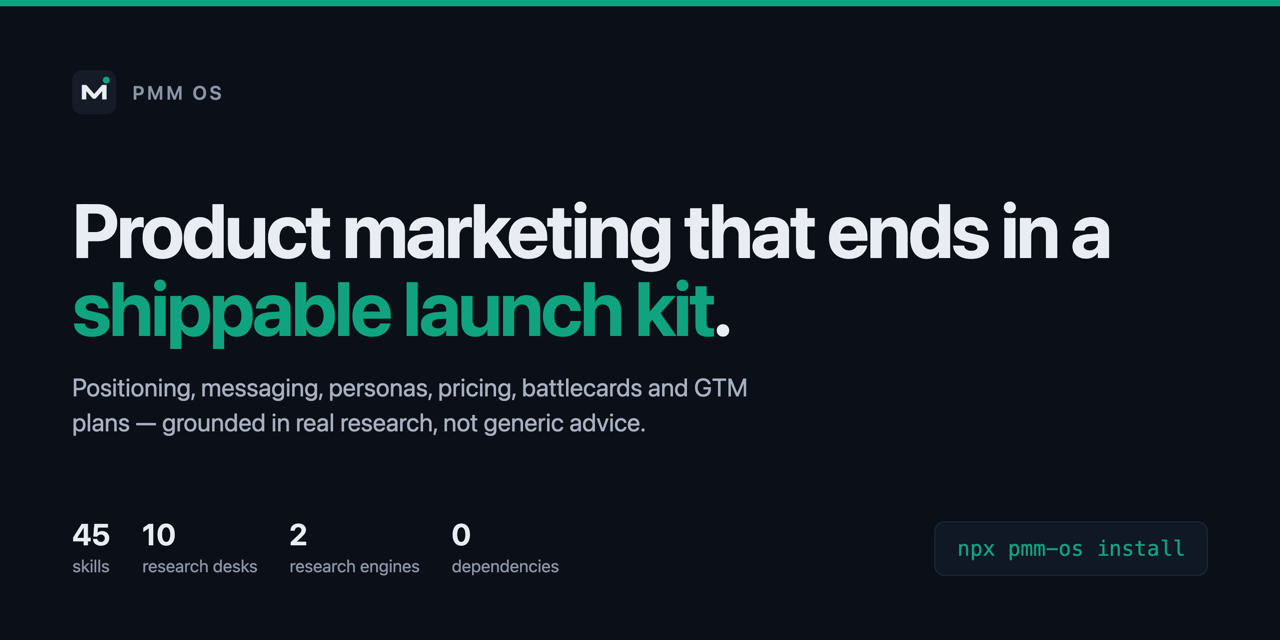
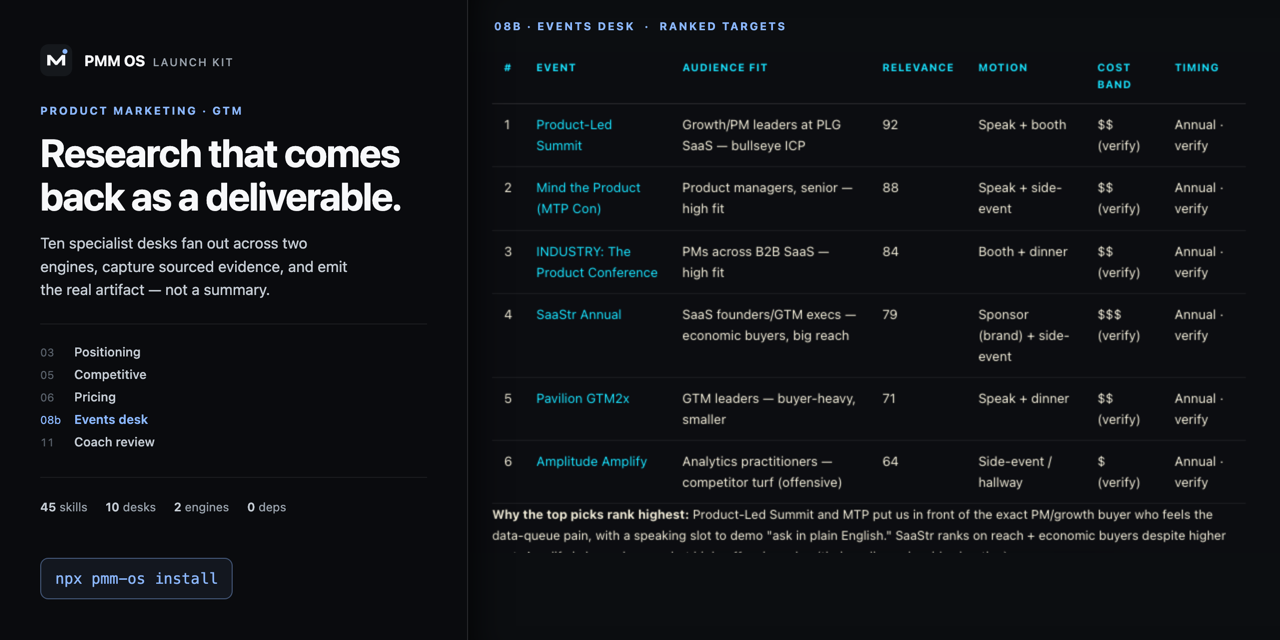
design: social preview shows the product instead of describing it
The first card was type on a dark field using the green from assets/icon.svg.
That green isn't the product: the launch kit's accent is #8cb8ff, its surface
#0c0e11, its sidebar #0a0b0e. So the card looked like a plausible dev-tool
card and nothing like PMM OS.

Rebuilt from the kit's own tokens, with the Events Desk artifact as the hero —
a ranked table of real conferences with relevance scores, cost bands, and the
paragraph explaining why the top picks rank highest. That reasoning is the
thing worth showing; it's what separates this from a summary generator.

Left rail mirrors the kit's sidebar: numbered sections with the active one
highlighted, the same way the product renders it.

Cropped past the "Illustrative" callout and the first-run tooltip, neither of
which belongs in a shared card. Source references ./events-desk.png rather
than inlining 216KB of base64, and carries the regenerate command.

diff --git a/docs/images/social-preview.source.html b/docs/images/social-preview.source.html
@@ -1,72 +1,109 @@
 <!doctype html>
+<!-- Social preview source. Regenerate after editing:
+       cd docs/images && chrome --headless --force-device-scale-factor=2 \
+         --screenshot=social-preview@2x.png --window-size=1280,640 file://$PWD/social-preview.source.html
+     Palette is lifted from skills/pmm-launch-kit/scripts/.kit-style.css — if the kit
+     is restyled, update both or the card stops matching the product. -->
 <meta charset="utf-8">
 <style>
-  /* GitHub social preview: 1280x640, but the card is cropped to ~1200x600
-     in some surfaces — keep everything inside a 64px safe margin. */
-  * { margin: 0; padding: 0; box-sizing: border-box; }
-  html, body { width: 1280px; height: 640px; }
+  /* Palette lifted verbatim from skills/pmm-launch-kit/scripts/.kit-style.css,
+     so the card and the product are the same surface rather than a lookalike. */
+  :root {
+    --bg:#0c0e11; --side:#0a0b0e; --ink:#f7f8fa; --muted:#c5ccd4; --dim:#9aa3ad;
+    --accent:#8cb8ff; --accent-line:rgba(140,184,255,.40); --line2:rgba(255,255,255,.12);
+  }
+  * { margin:0; padding:0; box-sizing:border-box; }
+  html,body { width:1280px; height:640px; overflow:hidden; }
   body {
-    background: #0B0F17;
-    font-family: -apple-system, BlinkMacSystemFont, "SF Pro Display", "Inter", system-ui, sans-serif;
-    color: #E9EDF3;
-    display: grid;
-    grid-template-rows: auto 1fr auto;
-    padding: 64px 72px;
-    /* one hairline of accent, top edge — restraint over a gradient header */
-    border-top: 6px solid #10A37F;
+    background:var(--side);
+    font-family:-apple-system,BlinkMacSystemFont,"SF Pro Text",Inter,system-ui,sans-serif;
+    color:var(--ink);
+    display:grid; grid-template-columns:468px 1fr;
   }
 
-  /* ---- top row: mark + wordmark ---- */
-  .top { display: flex; align-items: center; gap: 16px; }
-  .mark { width: 44px; height: 44px; display: block; }
-  .wordmark { font-size: 19px; font-weight: 600; letter-spacing: .14em; text-transform: uppercase; color: #8A94A6; }
-
-  /* ---- middle: the message, left-aligned, size does the hierarchy ---- */
-  .mid { align-self: center; }
-  h1 {
-    font-size: 76px; line-height: 1.02; font-weight: 700; letter-spacing: -.032em;
-    max-width: 21ch;
+  /* ---------- left rail: the kit's own sidebar ---------- */
+  .rail {
+    background:var(--side); border-right:1px solid var(--line2);
+    padding:44px 40px; display:flex; flex-direction:column; gap:28px;
   }
-  h1 em { font-style: normal; color: #10A37F; }
-  .sub {
-    margin-top: 24px; font-size: 25px; line-height: 1.4; font-weight: 400;
-    color: #A7B0C0; max-width: 46ch;
-  }
+  .brand { display:flex; align-items:center; gap:12px; }
+  .brand svg { width:32px; height:32px; border-radius:8px; display:block; }
+  .brand .n { font-size:15px; font-weight:700; letter-spacing:-.01em; }
+  .brand .n span { color:var(--dim); font-weight:500; letter-spacing:.12em; font-size:11px;
+                   text-transform:uppercase; margin-left:8px; }
 
-  /* ---- bottom: proof + install, separated by weight not color ---- */
-  .bot { display: flex; align-items: flex-end; justify-content: space-between; gap: 40px; }
-  /* #6F7B8E measured ~4.4:1 on this surface — under AA for body. Reuse the
-     wordmark grey (~6:1) rather than inventing another value. */
-  .facts { display: flex; gap: 32px; font-size: 17px; color: #8A94A6; }
-  .facts b { display: block; font-size: 30px; font-weight: 650; color: #E9EDF3; letter-spacing: -.01em; margin-bottom: 4px; }
-  .install {
-    font-family: ui-monospace, "SF Mono", Menlo, monospace;
-    font-size: 21px; color: #10A37F;
-    border: 1px solid #1E2A3A; border-radius: 10px;
-    padding: 14px 22px; background: #101725; white-space: nowrap;
+  .eyebrow { font-size:11px; font-weight:700; letter-spacing:.16em; text-transform:uppercase;
+             color:var(--accent); margin-bottom:14px; }
+  h1 { font-size:39px; line-height:1.11; font-weight:700; letter-spacing:-.028em; }
+  .sub { margin-top:14px; font-size:15px; line-height:1.55; color:var(--muted); max-width:33ch; }
+
+  /* the numbered section list people recognise from the kit */
+  .toc { margin-top:22px; display:grid; gap:8px; padding-top:20px;
+         border-top:1px solid rgba(255,255,255,.07); }
+  .toc div { display:flex; gap:12px; font-size:12.5px; align-items:baseline; }
+  .toc b { color:var(--muted); font-weight:500; }
+  .toc i { font-style:normal; color:#5b636d; font-variant-numeric:tabular-nums;
+           font-size:11px; min-width:22px; }
+  .toc .on b { color:var(--accent); font-weight:600; }
+  .toc .on i { color:var(--accent); }
+
+  .proof { margin-top:auto; padding-top:22px; display:flex; gap:18px; font-size:12px;
+           color:var(--dim); border-top:1px solid rgba(255,255,255,.07); }
+  .proof b { color:var(--muted); font-weight:600; }
+  .cmd { margin-top:16px; font-family:ui-monospace,"SF Mono",Menlo,monospace; font-size:15px;
+         color:var(--accent); border:1px solid var(--accent-line); border-radius:8px;
+         padding:11px 14px; background:rgba(140,184,255,.07); align-self:start; }
+
+  /* ---------- right: real UI, native scale, spliced past the disclaimer ---------- */
+  .shot { position:relative; overflow:hidden; background:var(--bg); }
+  .band { position:relative; overflow:hidden; }
+  .band img { position:absolute; width:1440px; height:900px; left:-286px;
+              image-rendering:-webkit-optimize-contrast; }
+  .label { height:52px; display:flex; align-items:center; padding:0 0 0 26px;
+           font-size:11px; font-weight:700; letter-spacing:.16em; text-transform:uppercase;
+           color:var(--accent); background:var(--bg); }
+  .band.grid { height:501px; }           /* table + the reasoning, stopping before the first-run toast */
+  .band.grid img { top:-330px; }
+  /* seat it in the card: shadow into the rail, fade out at the bleed */
+  .shot::after {
+    content:""; position:absolute; inset:0; pointer-events:none;
+    box-shadow:inset 30px 0 40px -30px rgba(0,0,0,.9);
+    background:linear-gradient(to bottom, transparent 84%, rgba(12,14,17,.55) 92%, rgba(12,14,17,.9) 100%);
   }
 </style>
 
-<div class="top">
-  <svg class="mark" viewBox="0 0 128 128" aria-hidden="true">
-    <rect width="128" height="128" rx="28" fill="#151C28"/>
-    <path d="M28 85V43h13l23 26 23-26h13v42H87V61L68 83h-8L41 61v24H28z" fill="#E9EDF3"/>
-    <circle cx="99" cy="29" r="10" fill="#10A37F"/>
-  </svg>
-  <span class="wordmark">PMM OS</span>
-</div>
-
-<div class="mid">
-  <h1>Product marketing that ends in a <em>shippable launch kit</em>.</h1>
-  <p class="sub">Positioning, messaging, personas, pricing, battlecards and GTM plans — grounded in real research, not generic advice.</p>
-</div>
-
-<div class="bot">
-  <div class="facts">
-    <div><b>45</b>skills</div>
-    <div><b>10</b>research desks</div>
-    <div><b>2</b>research engines</div>
-    <div><b>0</b>dependencies</div>
+<div class="rail">
+  <div class="brand">
+    <svg viewBox="0 0 128 128" aria-hidden="true">
+      <rect width="128" height="128" rx="28" fill="#15181c"/>
+      <path d="M28 85V43h13l23 26 23-26h13v42H87V61L68 83h-8L41 61v24H28z" fill="#f7f8fa"/>
+      <circle cx="99" cy="29" r="10" fill="#8cb8ff"/>
+    </svg>
+    <div class="n">PMM OS<span>Launch Kit</span></div>
   </div>
-  <div class="install">npx pmm-os install</div>
+
+  <div>
+    <div class="eyebrow">Product Marketing &middot; GTM</div>
+    <h1>Research that comes back as a deliverable.</h1>
+    <p class="sub">Ten specialist desks fan out across two engines, capture sourced
+      evidence, and emit the real artifact &mdash; not a summary.</p>
+    <div class="toc">
+      <div><i>03</i><b>Positioning</b></div>
+      <div><i>05</i><b>Competitive</b></div>
+      <div><i>06</i><b>Pricing</b></div>
+      <div class="on"><i>08b</i><b>Events desk</b></div>
+      <div><i>11</i><b>Coach review</b></div>
+    </div>
+  </div>
+
+  <div class="proof">
+    <span><b>45</b> skills</span><span><b>10</b> desks</span>
+    <span><b>2</b> engines</span><span><b>0</b> deps</span>
+  </div>
+  <div class="cmd">npx pmm-os install</div>
+</div>
+
+<div class="shot">
+  <div class="label">08b &middot; Events desk &nbsp;&middot;&nbsp; ranked targets</div>
+  <div class="band grid"><img src="./events-desk.png" alt=""></div>
 </div>
